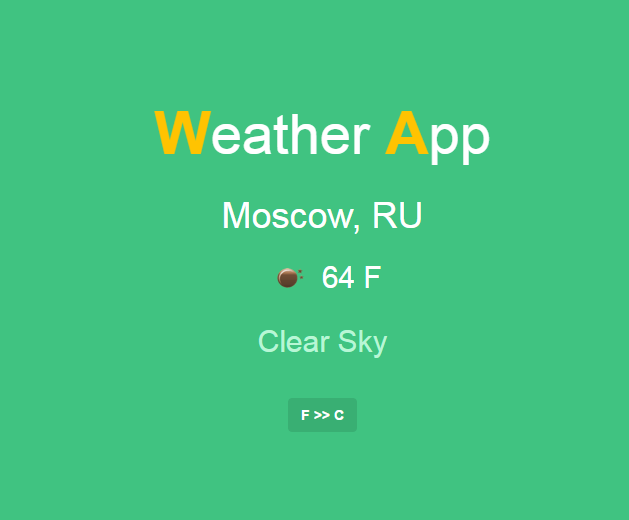
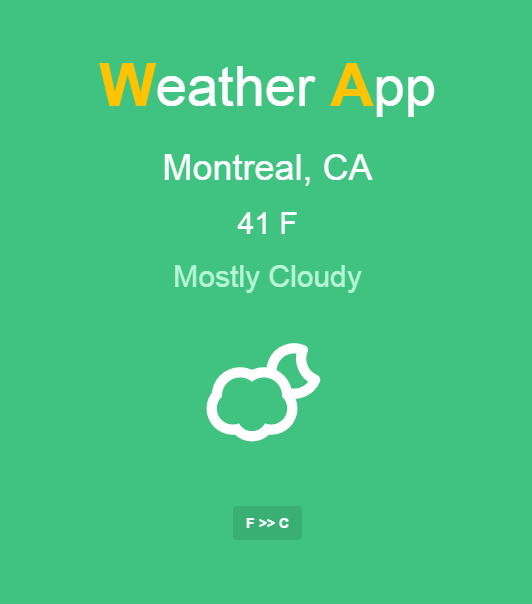
* weather API -> Dark Sky API

diff --git a/04_LocalWeather/scripts.js b/04_LocalWeather/scripts.js
@@ -5,22 +5,31 @@
   };
   
   var localWeather = {};
-  
+    
   showLocalWeather();
   bindClickButtonEvent();
   
   function showLocalWeather() {
-    $.getJSON("http://ipinfo.io/json").then(function(ipInfo) {          
+    $.getJSON("//ipinfo.io/json").then(function(ipInfo) {       
       var location = getLocation(ipInfo);
       $("#location").text(location.city + ", " + location.country);   
-      var getWeatherUrl = createGetWeatherUrl(location.latitude, location.longitude);      
-      return $.getJSON(getWeatherUrl);
-    }).then(function(weatherInfo){      
+      var getWeatherUrl = createGetWeatherUrl(location.latitude, location.longitude);   
+      
+      return $.ajax({
+        url: getWeatherUrl,
+        dataType: "jsonp"
+      });      
+    }).then(function(weatherInfo) {   
+      console.log(weatherInfo)
       var weather = getWeather(weatherInfo);
-      $("#img_condition").attr("src", weather.icon);
-      $("#description").text(weather.description);
-      $("#temperature").text(roundTemp(weather.temp) + " " + weather.units);
       localWeather = weather;
+      
+      var skycons = new Skycons({"color": "white"});
+      skycons.add(document.getElementById("img_condition"), weather.icon);
+      skycons.play();
+      
+      $("#description").text(weather.description);
+      $("#temperature").text(roundTemp(weather.temp) + " " + weather.units);            
     });
   }  
   
@@ -40,8 +49,8 @@
     }); 
   }    
   
-  function createGetWeatherUrl(latitude, longitude) {
-    return "http://api.openweathermap.org/data/2.5/weather?lat=" + latitude + "&lon=" + longitude + "&units=imperial&appid=8a8d136ffe83a12dbbfe14d5fc9a3964";
+  function createGetWeatherUrl(latitude, longitude) {    
+    return "//api.darksky.net/forecast/8007dc52232ebc5f498c70b6ffe19da6/" + latitude + "," + longitude + "?units=si";    
   }
   
   function getLocation(ipInfo) {
@@ -54,13 +63,12 @@
     };
   }
   
-  function getWeather(weatherInfo) {
-    var icon = weatherInfo.weather[0].icon;
+  function getWeather(weatherInfo) {      
     return {
-      icon: "http://openweathermap.org/img/w/" + icon + ".png",
-      temp: weatherInfo.main.temp,
+      icon: weatherInfo.currently.icon,
+      temp: convertCelsiusToFahrenheit(weatherInfo.currently.temperature),
       units: tempUnits.fahrenheit,
-      description: weatherInfo.weather[0].description,
+      description: weatherInfo.currently.summary,
     };
   }
   

diff --git a/04_LocalWeather/style.css b/04_LocalWeather/style.css
@@ -23,7 +23,10 @@ body {
   color: #b8f6d5;
 }
 
-.btn {  
+.btn,
+.btn:hover,
+.btn:active,
+.btn:focus{  
   margin-top: 30px;  
   background: #39AF73;
   border-color: #39AF73;  
@@ -31,15 +34,11 @@ body {
   font-weight: bold;
 }
 
-.btn:hover,
-.btn:active,
-.btn:focus {  
-  background: #309460;
-  border-color: #309460;  
-  color: #FFFFFF;  
-}
-
 .btn:focus,.btn:active:focus,.btn.active:focus,
 .btn.focus,.btn:active.focus,.btn.active.focus {
     outline: none;
+}
+
+canvas {
+  margin: 20px 0;
 }

diff --git a/README.md b/README.md
@@ -31,7 +31,8 @@ Source code for [codepen experiments](http://codepen.io/sufflavus/pens/public/) 
 - [Bootstrap 3.3.6](https://maxcdn.bootstrapcdn.com/bootstrap/3.3.6/css/bootstrap.min.css) 
 - [jQuery 2.2.2](//cdnjs.cloudflare.com/ajax/libs/jquery/2.2.2/jquery.min.js) 
 - [ipinfo.io JSON API](http://ipinfo.io/)
-- [OpenWeatherMap JSON API](http://openweathermap.org/current#current_JSON)
+- [Dark Sky API](https://darksky.net/dev/)
+- [Skycons](http://darkskyapp.github.io/skycons/)
 
 ![04_LocalWeather](https://github.com/Sufflavus/CodepenExamples/blob/master/images/04_LocalWeather.png)
 
